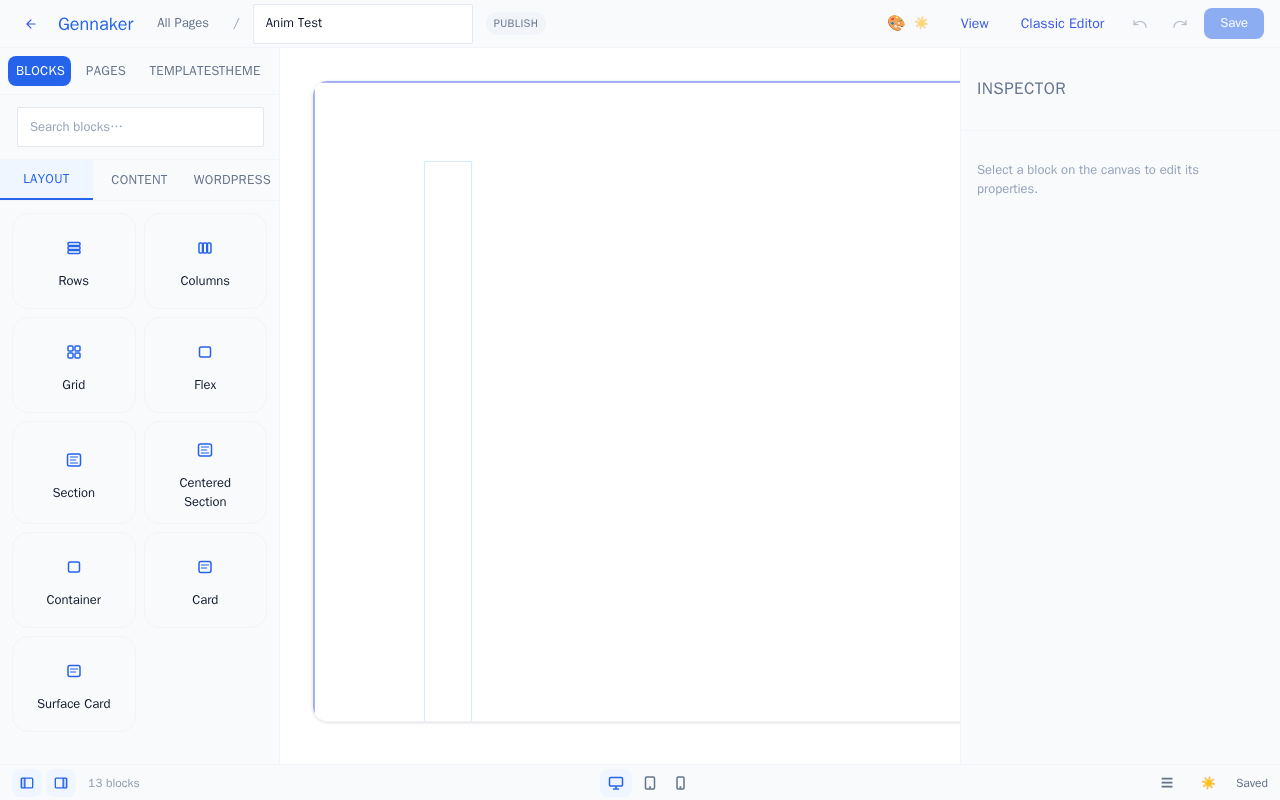
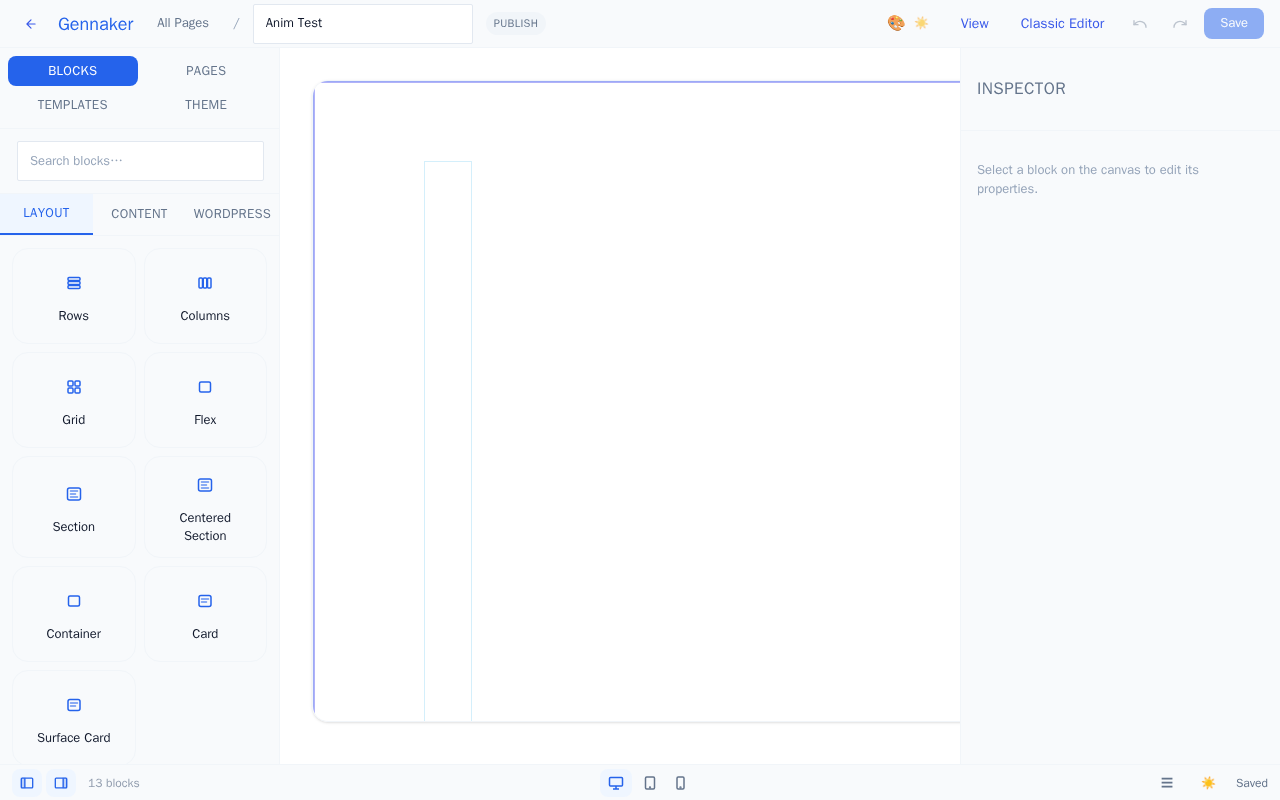
fix(builder): sidebar tab su griglia 2x2 (label incollati "TEMPLATESTHEME"); bundle wp.org include src TS

diff --git a/packages/builder-plugin/src/sidebar/Sidebar.tsx b/packages/builder-plugin/src/sidebar/Sidebar.tsx
@@ -121,11 +121,12 @@ export const Sidebar: FunctionComponent = () => {
       class="flex flex-col border-r border-border-subtle bg-surface-elevated"
       style={{ width: 'var(--builder-sidebar-width)' }}
     >
-      <div class="grid grid-cols-4 gap-1 border-b border-border-subtle p-2">
+      <div class="grid grid-cols-2 gap-1 border-b border-border-subtle p-2">
         {(['blocks', 'pages', 'templates', 'theme'] as const).map((panel) => (
           <button
             key={panel}
             type="button"
+            title={t('sidebar.' + panel, panel.charAt(0).toUpperCase() + panel.slice(1))}
             onClick={() => setActivePanel(panel)}
             class={`rounded-input px-2 py-1.5 text-[11px] font-semibold uppercase tracking-wide transition-colors ${
               activePanel === panel

diff --git a/scripts/wporg-bundle.py b/scripts/wporg-bundle.py
@@ -36,7 +36,7 @@ def main():
 
     src = os.path.join(PKG, 'builder-plugin')
     for m in os.listdir(src):
-        if m in ('readme.txt', 'blocky-builder.php', 'node_modules', 'tests', 'src', 'scripts'):
+        if m in ('readme.txt', 'blocky-builder.php', 'node_modules', 'tests', 'scripts'):
             continue
         s, d = os.path.join(src, m), os.path.join(OUT, 'builder', m)
         (shutil.copytree if os.path.isdir(s) else shutil.copy2)(s, d)
